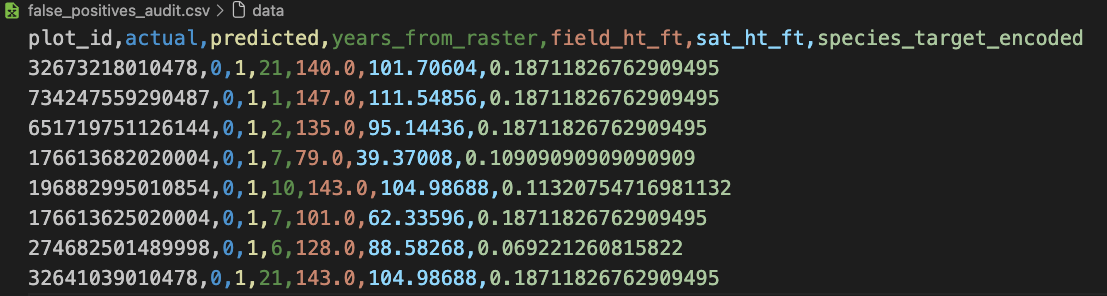
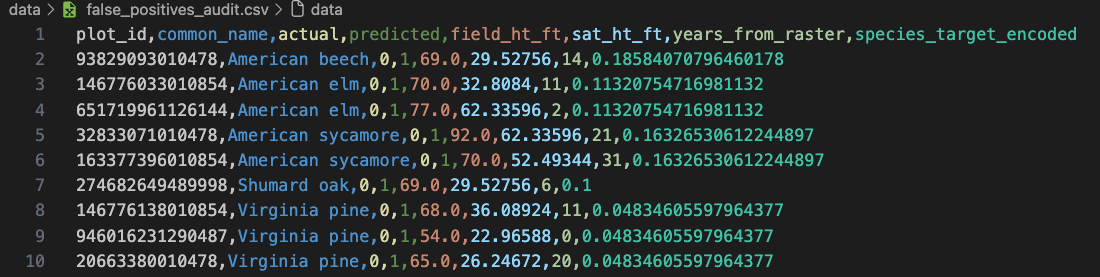
removed field_ht_ft from model training, updated README

Changed region(s): [[0.0, 0.0866, 0.9891, 0.7798], [0.0, 0.8087, 0.7109, 0.9819], [0.0, 0.0, 0.3091, 0.0578]]

diff --git a/python_scripts/main.py b/python_scripts/main.py
@@ -44,7 +44,8 @@ df['species_target_encoded'] = df['common_name'].map(species_map)
 
 # dropping ID values and columns that would confuse model
 # pointing y at 'is_disturbed'
-X = df.drop(columns=['plot_id', 'is_disturbed', 'survey_year', 'common_name'])
+# X = df.drop(columns=['plot_id', 'is_disturbed', 'survey_year', 'common_name'])
+X = df.drop(columns=['plot_id', 'is_disturbed', 'survey_year', 'field_ht_ft', 'common_name', 'exclusion_flag'])
 y = df['is_disturbed']
 
 # stratify=y ensures the 12% disturbance is equal in both sets
@@ -78,7 +79,9 @@ if not os.path.exists(data_dir):
 
 # key on plot_id index to refer to pre-model df 
 results = X_test.copy()
-results['plot_id'] = df.loc[X_test.index, 'plot_id'] 
+results['plot_id'] = df.loc[X_test.index, 'plot_id']
+results['common_name'] = df.loc[X_test.index, 'common_name']   
+results['field_ht_ft'] = df.loc[X_test.index, 'field_ht_ft']   
 results['actual'] = y_test
 results['predicted'] = y_pred 
 
@@ -87,13 +90,21 @@ df.to_csv(os.path.join(data_dir, 'ml_training_data_dominant_backup.csv'), index=
 
 print(f"Postgres ingestion .csv saved to {data_dir}")
 
-# false positive records into .csv
-false_positives = results[(results['actual'] == 0) & (results['predicted'] == 1)]
-cols = ['plot_id', 'actual', 'predicted'] + [c for c in results.columns if c not in ['plot_id', 'actual', 'predicted']]
-false_positives[cols].to_csv(os.path.join(data_dir, 'false_positives_audit.csv'), index=False)
+# Filter for False Positives (Model predicted 1, but it was actually 0)
+false_positives = results[(results['actual'] == 0) & (results['predicted'] == 1)].copy()
 
-print(f"Audit files exported to {data_dir}")
+# Sort by common_name to group species together
+false_positives = false_positives.sort_values(by='common_name')
 
+# Reorder columns to put identifiers and names at the front
+main_cols = ['plot_id', 'common_name', 'actual', 'predicted', 'field_ht_ft', 'sat_ht_ft']
+other_cols = [c for c in false_positives.columns if c not in main_cols]
+false_positives = false_positives[main_cols + other_cols]
+
+# Export the sorted audit list
+false_positives.to_csv(os.path.join(data_dir, 'false_positives_audit.csv'), index=False)
+
+print(f"Audit files exported to {data_dir} (Sorted by species name)")
 
 # obtaining a report on how well the model's prediction stacks up
 # to the known disturbed or stable records

diff --git a/READ.md b/READ.md
@@ -1,18 +1,18 @@
 # Tennessee Forest Canopy Height: Spatial and Tabular ETL to Feed Machine Learning Model
 
-> **Project Objective:** Create compatibility between ground survey forest data and satellite canopy height rasters to fuel a robust, ML-ready dataset for biomass modeling. We want the model to identify potential beetle killoffs, storm damage, or even illegal deforestation.
+> **Project Objective:** Create compatibility between ground survey forest data and satellite canopy height rasters to fuel a robust, ML-ready dataset for biomass modeling. The model, built on XGBoost framework,  aims to identify potential disturbances that could suggest hyper-localized storm damage, undocumented deforestation, or effects of invasive beetle species. 
 
 ---
 
 ## Overview
 
-This project addresses the gap between ground-level forestry inventory and satellite canopy height models. By joining thousands of tree measurements captured in the field with spatial rasters, we can build a model to predict forest structure across the state of Tennessee. 
+This project addresses the gap between ground-level forestry inventory and satellite canopy height models. By joining thousands of tree measurements captured in the field with spatial rasters, a reliable model to predict forest structure in Tennessee can be built. 
 
 Tabular data was obtained from the Forest Inventory and Analysis DataMart provided by the U.S. Department of Agriculture. Information regarding the plot of land, condition of the land, and field surveys of trees were of particular interest to this query, so three applicable tables were downloaded from the FIA DataMart. A fourth table, containing the master list of tree species, would later be included from the same source. That raw data can be found here: [FIA DataMart](https://research.fs.usda.gov/products/dataandtools/fia-datamart)
 
 To make a comparison to remote sensing data and demonstrate competency working with raster data, canopy height measurements captured with LiDAR instrumentation at a resolution of 10-m were sourced to then be combined with the tabular data from Tennessee forests. The canopy height data was compiled by EcoVision Lab at the ETH Zurich. The following link offers further details on their research and access to the datasets: [ETH Zurich](https://prs.igp.ethz.ch/research/completed_projects/automated_large-scale_high_carbon_stock.html)
 
-The Data Pipeline & Architecture section found below offers a detailed recount of the steps used to clearn and store raw data, transform it into a model-ready format, design of the machine learning model, and analysis of the model's results. 
+The Data Pipeline & Architecture section found below details the steps used to clearn and store raw data, transform it into a model-ready format, design of the machine learning model, and analysis of the model's results. 
 
 An actionable audit list of `plot_id` values associated with false positives was stored automatically by the script.
 
@@ -120,13 +120,9 @@ An actionable audit list of `plot_id` values associated with false positives was
   </table>
 </p>
 
-<p align="left">
-  <h3>12. XGBoost model initialization and training</h3>
-  <img src="project_screenshots/ML_meat.png" width="70%" />
-</p>
 
 <p align="left">
-  <h3>13. Model run and performance</h3>
+  <h3>12. XGBoost model and performance</h3>
   <table style="width: 100%; border-collapse: collapse;">
     <tr style="border: none;">
       <th style="text-align: center; border: none;">Meat of model</th>
@@ -144,12 +140,12 @@ An actionable audit list of `plot_id` values associated with false positives was
 </p>
 
 <p align="left">
-  <h3>14. Importance of features to the model</h3>
+  <h3>13. Importance of features to the model</h3>
   <img src="project_screenshots/model_results.png" width="70%" />
 </p>
 
 <p align="left">
-  <h3>15. Actionable list of false positives</h3>
+  <h3>14. Actionable list of false positives</h3>
   <img src="project_screenshots/false_positive_audit.png" width="70%" />
 </p>
 
@@ -171,13 +167,14 @@ An actionable audit list of `plot_id` values associated with false positives was
 | **Species Code Meaning:** Attempting to answer questions about the data was complicated by the species codes being only numeric. | Downloaded, cleaned, and integrated the species reference list to the schema. | 
 | **Satellite Canopy Height vs Understory:** I became concered about the 'sat_ht_ft' value being applied to such a wide number of trees in a given plot. Upon investigating, it sounds like a common issue when relying on 10-m LiDAR resolution in forestry research. Telling the ML model that a slew of trees measured at 15 feet in the field produced a satellite height measuremnt of 70 feet is liable to confuse the model as these are more or less false positives. | Made the executive decision to rank tree height within each plot. This shrinks the total record count dramaticallly - from approximately 340k records to just over 10,000. I'd rather feed the model meaningful, high-value data than overwhelm it with noise. | 
 | **Give the Model a Sense of Time:** The raw data includes snapshots in time by displaying the field survey year and we know that the raster data came from 2020. This isn't enough for a machine learning model to consider the passage of time in its decision tree. | Calculated an additional column that outputs the number of years on either side of the remote sensing that the field survey was conducted. |
+| **Recall and Precision Suspiciously High:** Feeding the ml_training_data_dominant table to the model as is resulted in precision and recall metrics 97% and 98%, respectively. This was too good to be true. After looking into this, providing the math of what consitutes "is_disturbed" to the model was essentially providing it a cheat sheet and encouraging it to calculate what was already categorized by the CASE statements. | Modified the model by removing 'field_ht_ft' and 'exlcusion_flag' columns from its training set. Decrease in precision and recall scores show that model is learning from patterns instead of memorizing the categorization of disturbed vs. stable as defined by the SQL logic.| 
 
 
 ---
 
 ## Data Quality Assurance
 
-While reviewing the intitial SQL output, I noticed a several thousand NULL values in field_ht_ft.  
+While reviewing the intitial SQL output, I noticed several thousand NULL values in 'field_ht_ft'.  
 
 I thought that perhaps these would be localized to a specific area or 
 maybe belong to a particular species. Even with further investigation, no real pattern stood out. This could simply be representation in the dataset of how difficult
@@ -190,13 +187,13 @@ This was a critical catch as nearly 8% of all records in the ml_training_data_st
   <img src="project_screenshots/NULL_field_height_issue.png" width="70%" />
 </p>
 
-This analysis encountered a crossroads of sorts when it came time to decide if it would be worth injecting every individual tree surveyed in a given plot or whether to key only on the taller (or tallest) trees that would've been captured in the remote sensing data. The SQL lgoic was revised so that a ranking system was applied to each tree (by plot_id) of the entire cleaned dataset. This enabled me to make a comparison of field to raster data with much more truth while avoiding the noise of several hundred thousand trees whose data are not reflected in the LiDAR data. 
+The greatest roadblock dealt with the fact that the raster canopy height measurement really only measures the peak of that `plot_d`. Feeding ~300k understory trees assigned the same satellite height value would not serve the model well. As such, the SQL logic was revised so that a ranking system was applied to each tree grouped by `plot_id`. This enabled the comparison of field to raster data with much more truth while avoiding the noise of several hundred thousand trees whose height measurements are not reflected in the LiDAR data. 
 
-To acheive this, I implemented a quality check, embedded as a CASE statement, that dynamically flags records to ensure the ML model only trains on high-integrity data as well as classifiying those records as "stable" or "disturbed". The ranking was handled by moving this logic inside of a CTE then selecting and filtering based on that logged data.
+To acheive this, I implemented a quality check, embedded as a CASE statement, that dynamically flags records to ensure the ML model is shielded from records with sensor errors or data skewed by environmental factors such as a cloud opacity. A separate CASE statement categorizes records as "stable" or "disturbed". The ranking was handled by moving this logic inside of a CTE then selecting and filtering based on that stored data.
 
 <p align="left">
-  <h3>Disturbed Count</h3>
-  <img src="project_screenshots/disturbed_count.png" width="70%" />
+  <h3>Supply Only High-Integrity Data</h3>
+  <img src="project_screenshots/CASE_statements.png" width="70%" />
 </p>
 
 It was also necessary to give the model a bit of context for the passsage of time. This could be described as feature engineering in a data science role. The output table does have the survey year included. However, without a calculation of that value with respect to the year in which the raster data was compiled, the model wouldn't know to use time as as part of its prediction. This is a key ingredient to the whole process.
@@ -205,19 +202,30 @@ It was also necessary to give the model a bit of context for the passsage of tim
   <h3>Years Until or Since LiDAR Imaging</h3>
   <img src="project_screenshots/years_from_raster.png" width="70%" />
 </p>
+
 ---
 
 ## Conclusion
 
-1. Findings: Eight false positives generated from the model execution. Precisions of .97, recall .98, f-1 score 0f .98. sat_ht_ft field identified as most important feature to the model
+1. Findings: 166 false positives generated from the model execution. Precisions of .57, recall .87, f-1 score 0f .69. sat_ht_ft field identified as most important feature to the model.
 
-2. Significance: The false positives no placed into a quasi-audit file provide the forestry team with cause to further investigate those specific areas. It's possible that this list captures hyper localized storms, illegal deforestation, or some unknown pest that toppled trees.
+2. Significance: The false positives list found in the audit file provides the forestry team with cause to further investigate those specific areas. It's possible that this list captures hyper localized storms, illegal deforestation, or some unknown pest that toppled trees. 
 
-3. Room for improvement:
-Noticed some common_tree name values with spaces or different joining characters. The species reference listed was integrated later in the process and I was sure to format the field names accordingly, but should've reviewed and sychronized the values within as well. The model succeeded to a high degree in what it set out to do considering the parameters it was fed. It would be interesting to include some other basics such as elevation and slope to see how they affect the predictions. A true risk factor feature would be very handy to introduce as opposed to the model inferring and assigning that lightly-weighted variable to the model. I'd like to work with spectral signatures someday. It stands to reason that the color aspect of satellite images could prove to be extremely useful in such analyses. Perhaps 7 years of forest growth is considered too much time. Should I have limited the survey history further?
+Edge Cases	The height difference was 38ft (SQL cutoff is 40ft).	Accept it; the model is just being precise.
+Species Noise	"Loblolly Pine" has a jagged canopy that tricks the laser.	ETL Bonus Task: Flag this species for special handling.
+Temporal Noise	years_from_raster is high (e.g., 5 years).	The tree grew or changed naturally over time.
 
-* a data dictionary of sorts that simply guides users through the meaning/content of a given table or record would be handy |
 
-* some thoughts on pre-raster tabular data (2015-2019, sweetspot (2020), and post-raster 2021-2022)
+3. Room for improvement: 
+
+Noticed some common_tree name values with spaces or different joining characters. The species reference listed was integrated later in the process and I was sure to format the field names accordingly, but should've reviewed and sychronized the values within as well. 
+
+The model succeeded in what it set out to do considering the parameters it was fed. It would be interesting to include other variables such as elevation and slope to see how they affect the prediction. A true species susceptibililty feature would be very handy to introduce as opposed to the model inferring and assigning that lightly-weighted variable to the model. I'd also like to work with spectral signatures someday as it stands to reason that the color aspect of satellite images could prove to be extremely useful in such analyses. 
+
+Being able to rely on domain knowledge regarding expect forest growth rates would help to potentially narrow the time gap between field data and the raster image. Perhaps the industry would consider 5 years on either side of the 2020 satellite data to be too long. 
+
+Inclusion of a  data dictionary that defines fields, tables, and units so that various users have reference material for all aspects of this project.
+
+
 
 ---
